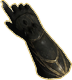
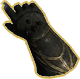
Thicken the gauntlet cursor
Broaden the hand 1.3x before it leans and draw the gold rim one CSS
pixel wide at both densities, so the cursor reads heavier on the dark room.

diff --git a/knowledge/Decision Log.md b/knowledge/Decision Log.md
@@ -18,7 +18,7 @@ From his marked-up screenshot: Summerset-gold boughs reach in over both top corn
 
 ## 2026-10-22 - The cursor is a Thalmor gauntlet
 
-The First Emissary's gauntlet (`Assets/cursor/thalmor gloves cursor.jfif`) is the archive's cursor everywhere: on the page and on every control, so links and buttons point with the same hand instead of the system's. The source is a JPEG with a transparency checkerboard painted into it, so `scripts/prepare-cursor.mjs` cuts the gauntlet out by its own dark silhouette and redraws the source's pale outline as a one-pixel rim in the archive's gold; the white glint over the fingertip is left off, and nothing else is added. It leans 28 degrees to the left, as an arrow cursor does, so the fingertip is the top-left point and the hotspot. It fits 40 by 40 (enlarged from 32 at the First Emissary's asking; Chromium hides cursors over 32px only where they cross its own UI at the window's edge), with a 2x copy for high-density screens through `image-set()`. Each mouse or pen click strikes a brief gold spark at the fingertip (`web/src/click-spark.ts`, styled in base.css): a span dropped at the pointer and removed after 600ms, never in the way of a click, and not struck at all for readers who ask for less motion. Every `cursor: pointer` and `cursor: default` in the stylesheets became `inherit`; text fields keep their I-beam and disabled controls keep `not-allowed`.
+The First Emissary's gauntlet (`Assets/cursor/thalmor gloves cursor.jfif`) is the archive's cursor everywhere: on the page and on every control, so links and buttons point with the same hand instead of the system's. The source is a JPEG with a transparency checkerboard painted into it, so `scripts/prepare-cursor.mjs` cuts the gauntlet out by its own dark silhouette and redraws the source's pale outline as a rim in the archive's gold, one CSS pixel wide; the white glint over the fingertip is left off, and nothing else is added. It leans 28 degrees to the left, as an arrow cursor does, so the fingertip is the top-left point and the hotspot. It is broadened 1.3 times across the hand before it leans, a heavier gauntlet than the drawing's slender one (asked for by the First Emissary the same day). It fits 40 by 40 (enlarged from 32 at the First Emissary's asking; Chromium hides cursors over 32px only where they cross its own UI at the window's edge), with a 2x copy for high-density screens through `image-set()`. Each mouse or pen click strikes a brief gold spark at the fingertip (`web/src/click-spark.ts`, styled in base.css): a span dropped at the pointer and removed after 600ms, never in the way of a click, and not struck at all for readers who ask for less motion. Every `cursor: pointer` and `cursor: default` in the stylesheets became `inherit`; text fields keep their I-beam and disabled controls keep `not-allowed`.
 
 ## 2026-10-20 - The torches stand outside the arches
 
